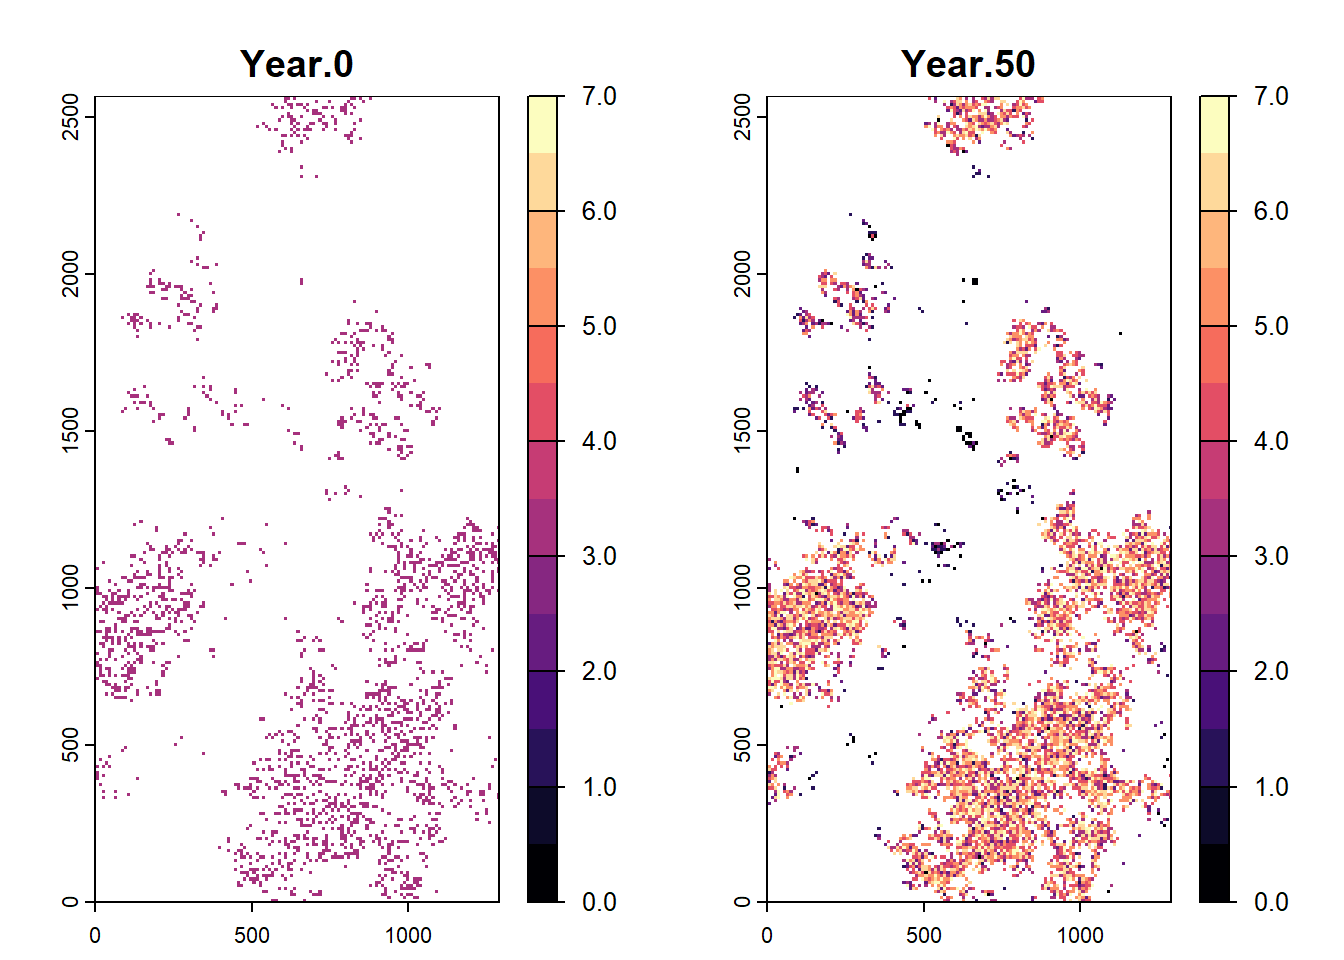
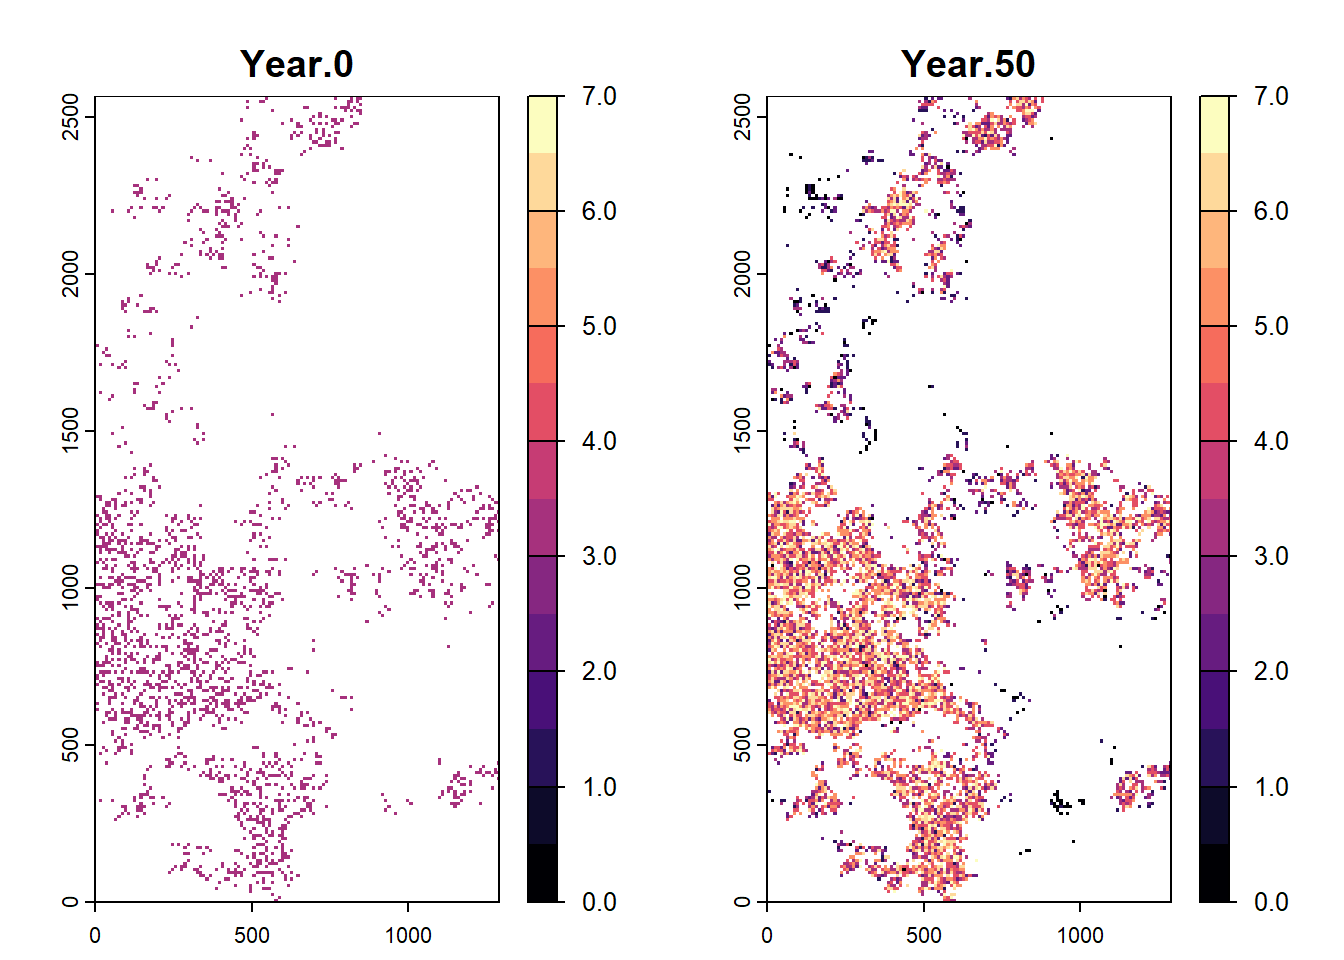
Update files after bugfix

diff --git a/overview_0.html b/overview_0.html
@@ -451,8 +451,8 @@ number="1.1">
 working example</h2>
 <p>Load the package by typing:</p>
 <pre class="r"><code>library(RangeShiftR)</code></pre>
-<pre><code>## RangeshiftR version 3.0.0 (24.03.2026)
-## Copyright (C) 2020-2026 Anne-Kathleen Malchow, Greta Bocedi, Stephen C.F. Palmer, Justin M.J. Travis, Jette Wolff, Damaris Zurell
+<pre><code>## RangeshiftR version 3.0.0 (22.04.2026)
+## Copyright (C) 2020-2026 Anne-Kathleen Malchow, Greta Bocedi, Stephen C.F. Palmer, Justin M.J. Travis, Jette Wolff, Théo Pannetier, Roslyn Henry, Damaris Zurell
 ## 
 ## This program is distributed in the hope that it will be useful, but WITHOUT ANY WARRANTY.
 ## You are welcome to redistribute it and/or modify it under certain conditions;
@@ -578,9 +578,14 @@ are:</p>
 <li>Management</li>
 <li>Initialisation</li>
 </ul>
-<p>Here is a schematic overview of the module constructors and their
-relations: <img src="figures/function_overview_3.0.png"
-alt="RangeshiftR function overview" /></p>
+Here is a schematic overview of the module constructors and their
+relations:
+<div class="figure">
+<img src="figures/function_overview_3.0.png" alt="*RangeshiftR function overview*" width="412" />
+<p class="caption">
+<em>RangeshiftR function overview</em>
+</p>
+</div>
 <p>In the following, we go through some of the most relevant aspects of
 each module.</p>
 <div id="simulation" class="section level2" number="2.1">
@@ -673,7 +678,7 @@ settlement condition so that a female individual, that arrives in an
 unsuitable cell, will wait for another time step and disperse again,
 while the males will die if arriving in an unsuitable cell:</p>
 <pre class="r"><code>disp &lt;-  disp + Settlement(SexDep = T, 
-                           Settle = matrix(c(0,1,1,0), nrow = 2),
+                           Settle = matrix(c(1,0,1,0), nrow = 2),
                            FindMate = matrix(c(1,0,F,F), nrow = 2))</code></pre>
 <p>The dispersal traits of every phase can be set to vary between
 individuals (<code>IndVar = TRUE</code>). This also makes the dispersal

diff --git a/installing.html b/installing.html
@@ -381,8 +381,8 @@ package directly from its public repository on <em>github</em>, using
 <p>After successful installation, which can take a few minutes, you can
 load and use the package:</p>
 <pre class="r"><code>library(RangeShiftR)</code></pre>
-<pre><code>## RangeshiftR version 3.0.0 (24.03.2026)
-## Copyright (C) 2020-2026 Anne-Kathleen Malchow, Greta Bocedi, Stephen C.F. Palmer, Justin M.J. Travis, Jette Wolff, Damaris Zurell
+<pre><code>## RangeshiftR version 3.0.0 (22.04.2026)
+## Copyright (C) 2020-2026 Anne-Kathleen Malchow, Greta Bocedi, Stephen C.F. Palmer, Justin M.J. Travis, Jette Wolff, Théo Pannetier, Roslyn Henry, Damaris Zurell
 ## 
 ## This program is distributed in the hope that it will be useful, but WITHOUT ANY WARRANTY.
 ## You are welcome to redistribute it and/or modify it under certain conditions;